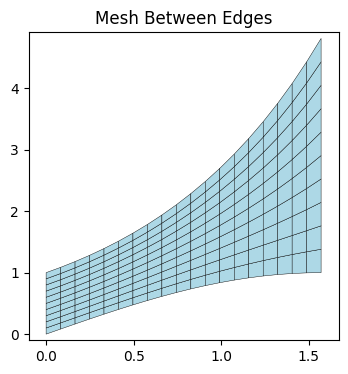
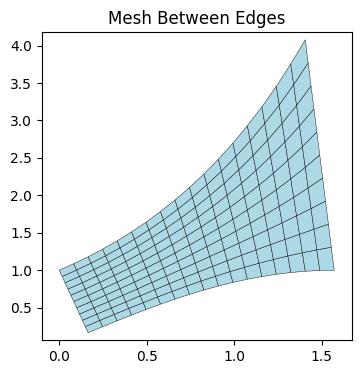
updated readme

diff --git a/README.md b/README.md
@@ -81,8 +81,8 @@ plot_res = (4, 4)
 ```python
 # Define two edges
 x = np.linspace(0, np.pi / 2, 20)
-edge1 = np.array([x, np.sin(x)])
-edge2 = np.array([x, np.exp(x)])
+edge1 = np.array([x[2:], np.sin(x[2:])])
+edge2 = np.array([x[:-2], np.exp(x[:-2])])
 
 # Generate the mesh
 radial_resolution = 10
@@ -99,7 +99,7 @@ ax.set_title("Mesh Between Edges")
 plt.show()
 ```
 
-    Generated mesh with 190 quadrilateral faces.
+    Generated mesh with 170 quadrilateral faces.
     
 
 
